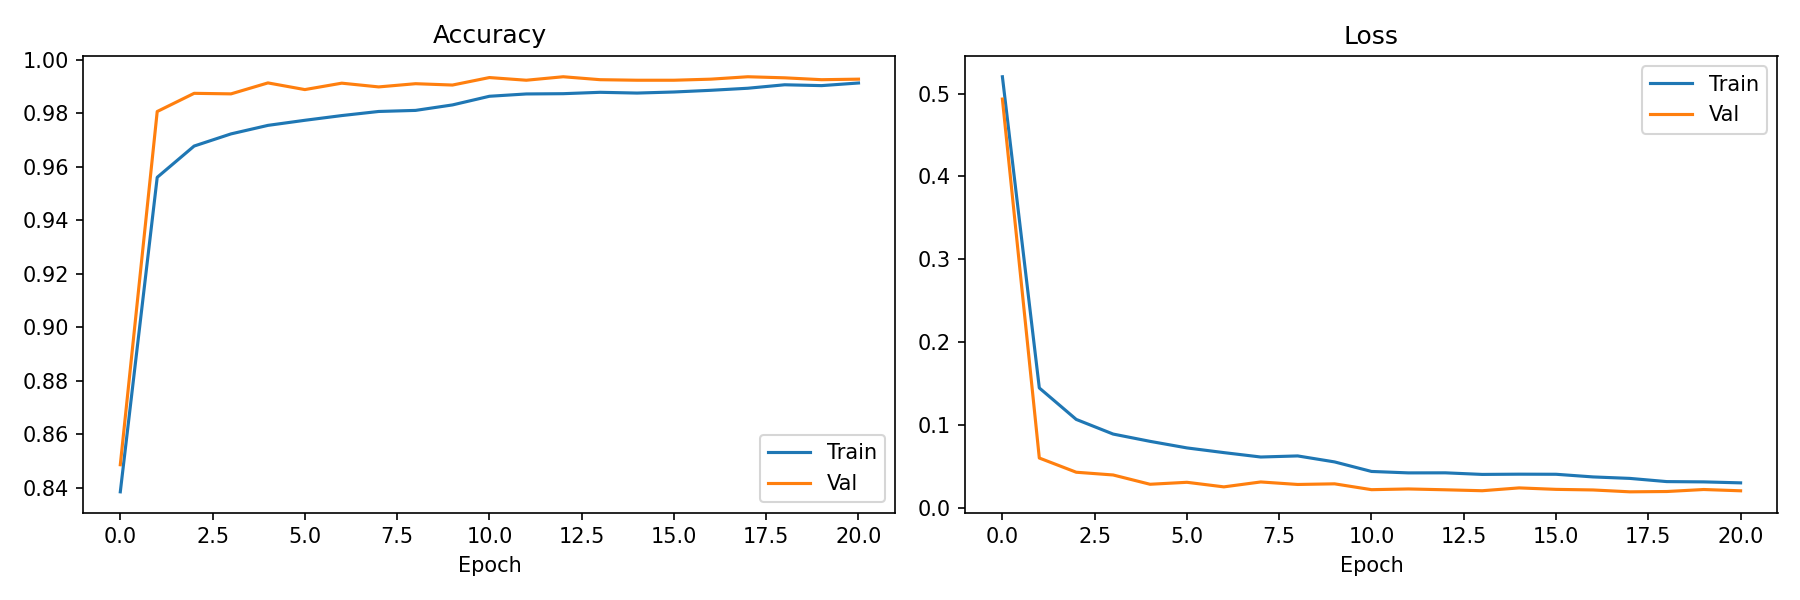
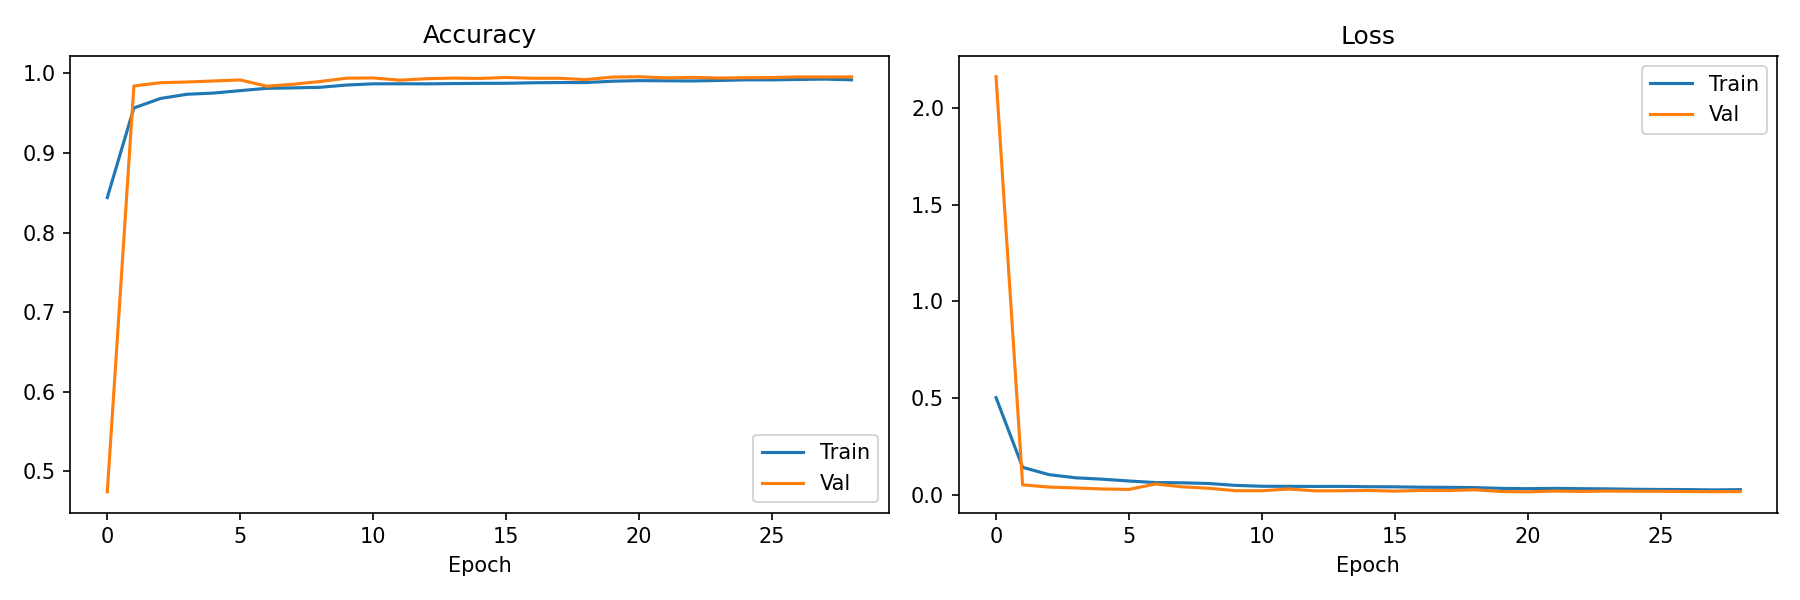
Fix keras file

diff --git a/train.py b/train.py
@@ -148,6 +148,8 @@ def main():
     test_loss, test_acc = model.evaluate(x_test, y_test_cat, verbose=0)
     log.info(f"Test accuracy : {test_acc * 100:.2f}%")
     log.info(f"Test loss     : {test_loss:.4f}")
+
+    model.save(MODEL_PATH)
     log.info(f"\nModel saved  ->  {MODEL_PATH}")
 
     # ── 9. Plot Training Curves ───────────────────────────────────────────────